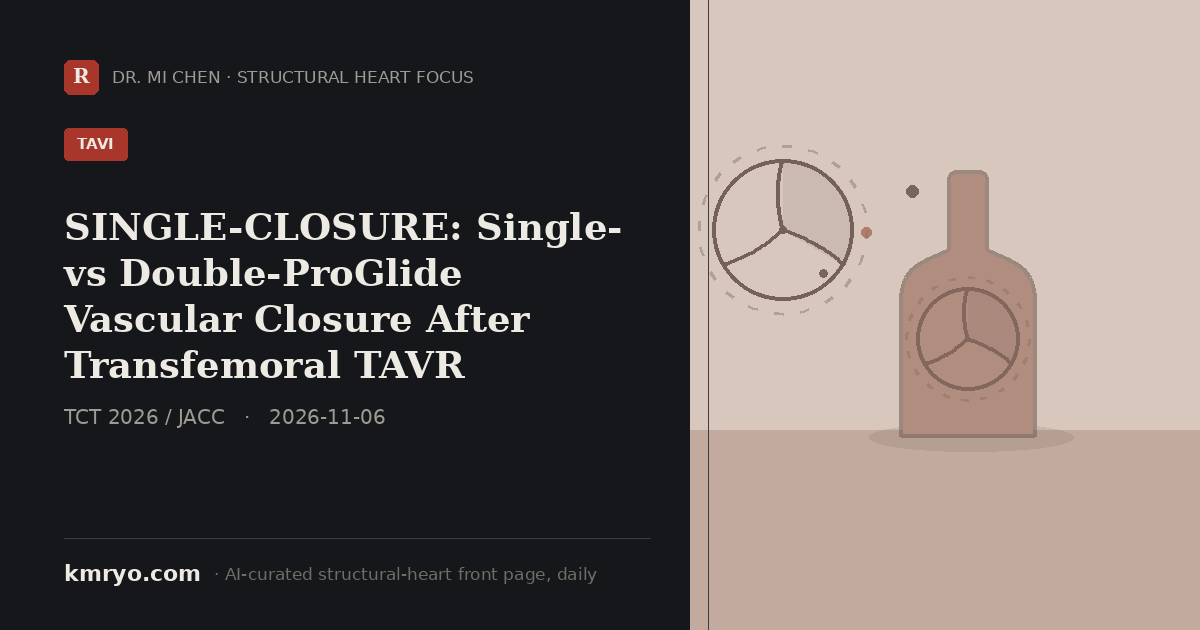
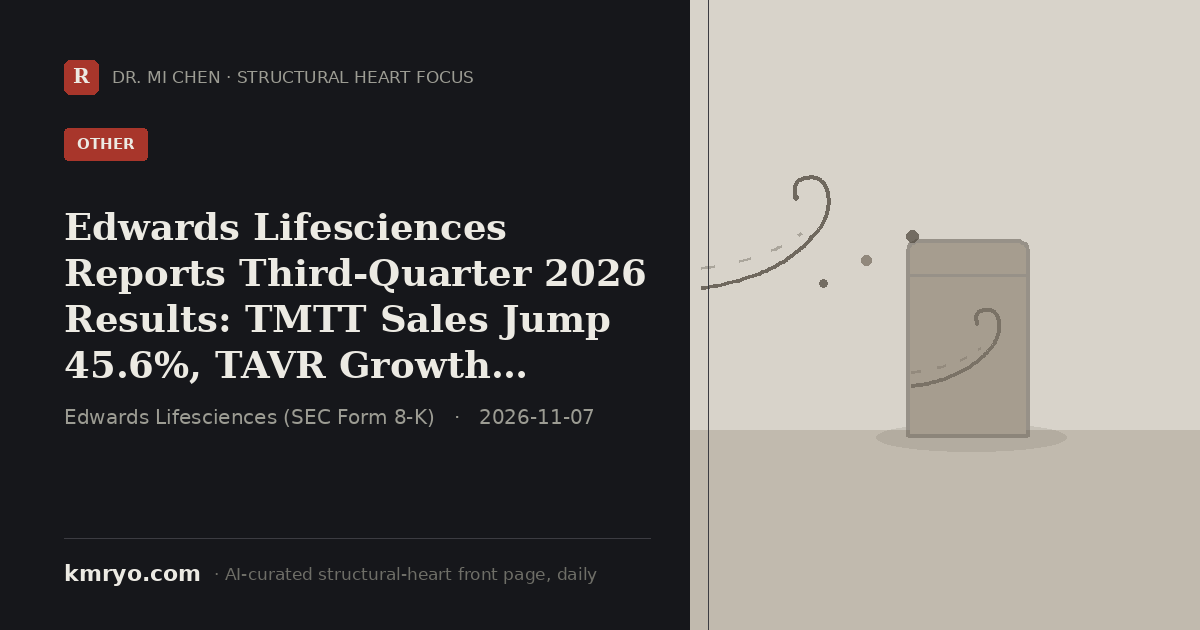
pulse: 2026-11-07 daily update
Claude-Session: https://claude.ai/code/session_01VwCofkaVjqfu8U4WzYVpbj

diff --git a/index.html b/index.html
@@ -6,8 +6,8 @@
 <title>Structural Heart Focus — Daily | Dr. Mi Chen</title>
 <meta name="description" content="Structural Heart Focus — the day's most important structural-heart reading (top journals, major meetings and the field's conversation), curated daily by an AI agent from inside the Zurich hybrid room. By Dr. Mi Chen.">
 <!-- Social share card. Regenerated daily by the pulse agent (pulse/make_share_card.py); og:title/description updated to the day's top story so LinkedIn/WeChat/X show today's headline, not a static portrait. -->
-<meta property="og:title" content="SINGLE-CLOSURE: Single- vs Double-ProGlide Vascular Closure After Transfemoral TAVR">
-<meta property="og:description" content="TCT 2026 / JACC: an 876-patient randomized trial finds a single-ProGlide vascular closure strategy after transfemoral TAVR is as safe as double-ProGlide, with similar 30-day mortality.">
+<meta property="og:title" content="Edwards Lifesciences Reports Third-Quarter 2026 Results: TMTT Sales Jump 45.6%, TAVR Growth Accelerates, Full-Year Guidance Raised">
+<meta property="og:description" content="Edwards' Q3 2026 results show TMTT (transcatheter mitral/tricuspid) sales up 45.6% in constant currency, outpacing TAVR's 8.8% growth, as the company raises its full-year 2026 guidance.">
 <meta property="og:image" content="https://www.kmryo.com/pulse/img/share/card.png">
 <meta property="og:image:width" content="1200">
 <meta property="og:image:height" content="630">
@@ -16,8 +16,8 @@
 <meta property="og:type" content="website">
 <meta property="og:site_name" content="kmryo.com · Structural Heart Focus">
 <meta name="twitter:card" content="summary_large_image">
-<meta name="twitter:title" content="SINGLE-CLOSURE: Single- vs Double-ProGlide Vascular Closure After Transfemoral TAVR">
-<meta name="twitter:description" content="TCT 2026 / JACC: an 876-patient randomized trial finds a single-ProGlide vascular closure strategy after transfemoral TAVR is as safe as double-ProGlide, with similar 30-day mortality.">
+<meta name="twitter:title" content="Edwards Lifesciences Reports Third-Quarter 2026 Results: TMTT Sales Jump 45.6%, TAVR Growth Accelerates, Full-Year Guidance Raised">
+<meta name="twitter:description" content="Edwards' Q3 2026 results show TMTT (transcatheter mitral/tricuspid) sales up 45.6% in constant currency, outpacing TAVR's 8.8% growth, as the company raises its full-year 2026 guidance.">
 <meta name="twitter:image" content="https://www.kmryo.com/pulse/img/share/card.png">
[1 lines of base64/hex data omitted]
 <link rel="preconnect" href="https://fonts.googleapis.com">
